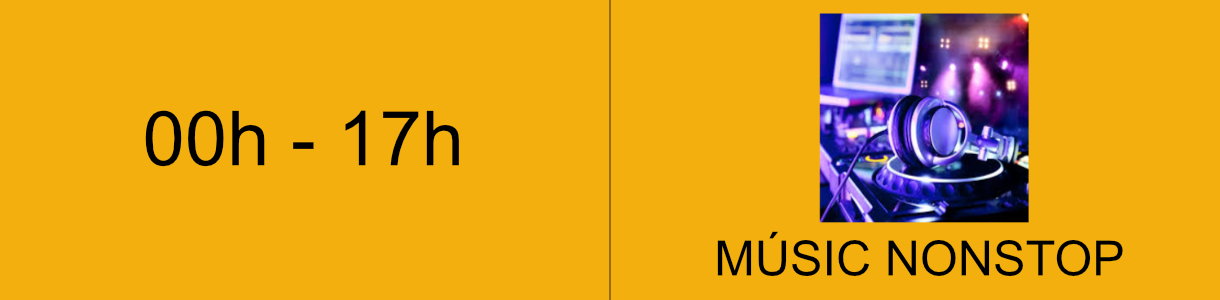
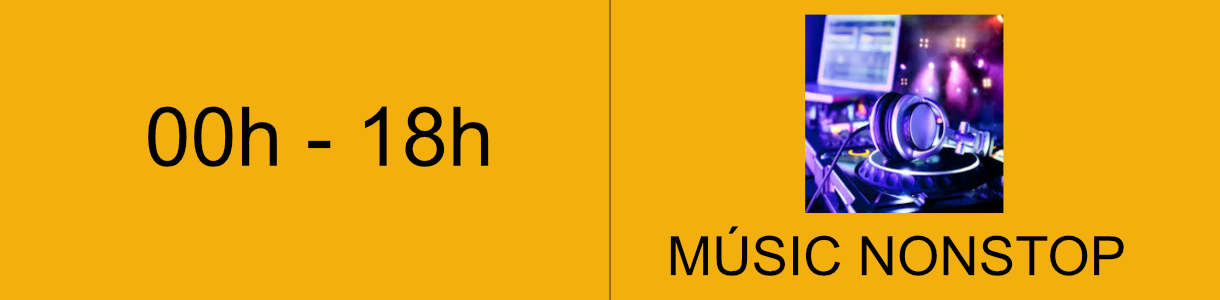
danielgaspar enviar

Changed region(s): [[0.6541, 0.03, 0.841, 0.75], [0.5295, 0.75, 0.9344, 0.93], [0.1246, 0.36, 0.4049, 0.57]]

diff --git a/site/prpgramação.md b/site/prpgramação.md
@@ -20,7 +20,7 @@ permalink: /programação/
   <img src="/imagens/music-nonstop.png" alt="MUSIC NONSTOP">
   <img src="/imagens/atarte.png" alt="A TARDE">
   <img src="/imagens/anoite.png" alt="A NOITE">
-  <img src="/imagens/musicnonstop.png" alt="MUSIC NONSTOP">
+  <img src="/imagens/musicnonstop1.png" alt="MUSIC NONSTOP">
   </div>
   <div class="terca">
   <img src="/imagens/music-nonstop.png" alt="MUSIC NONSTOP">
